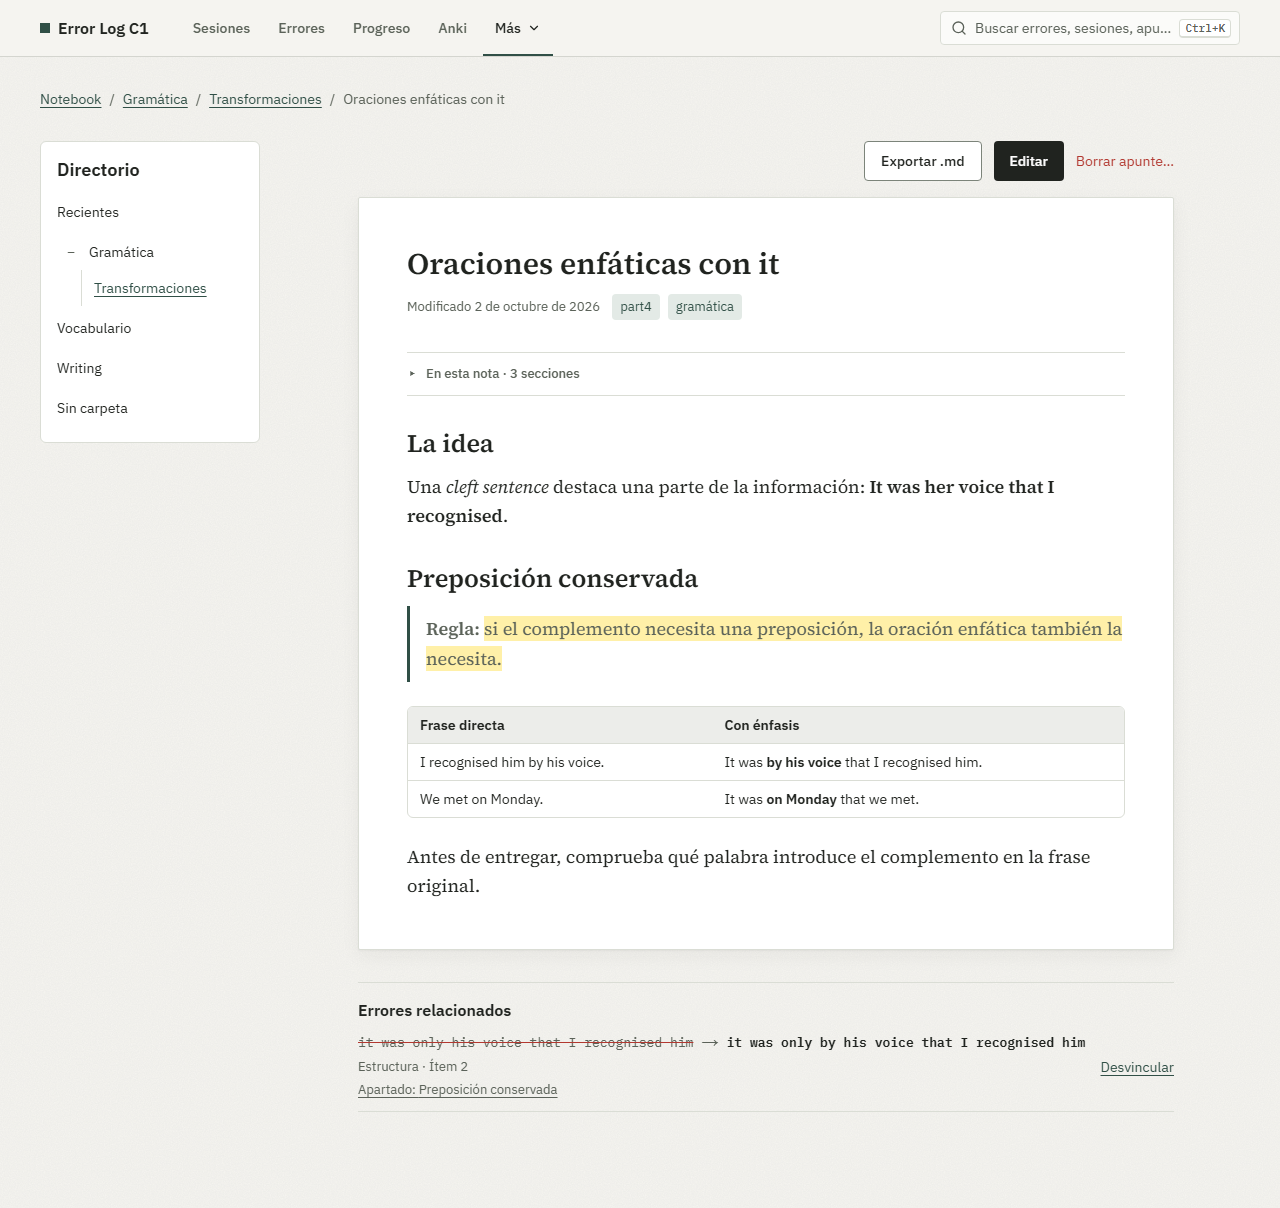
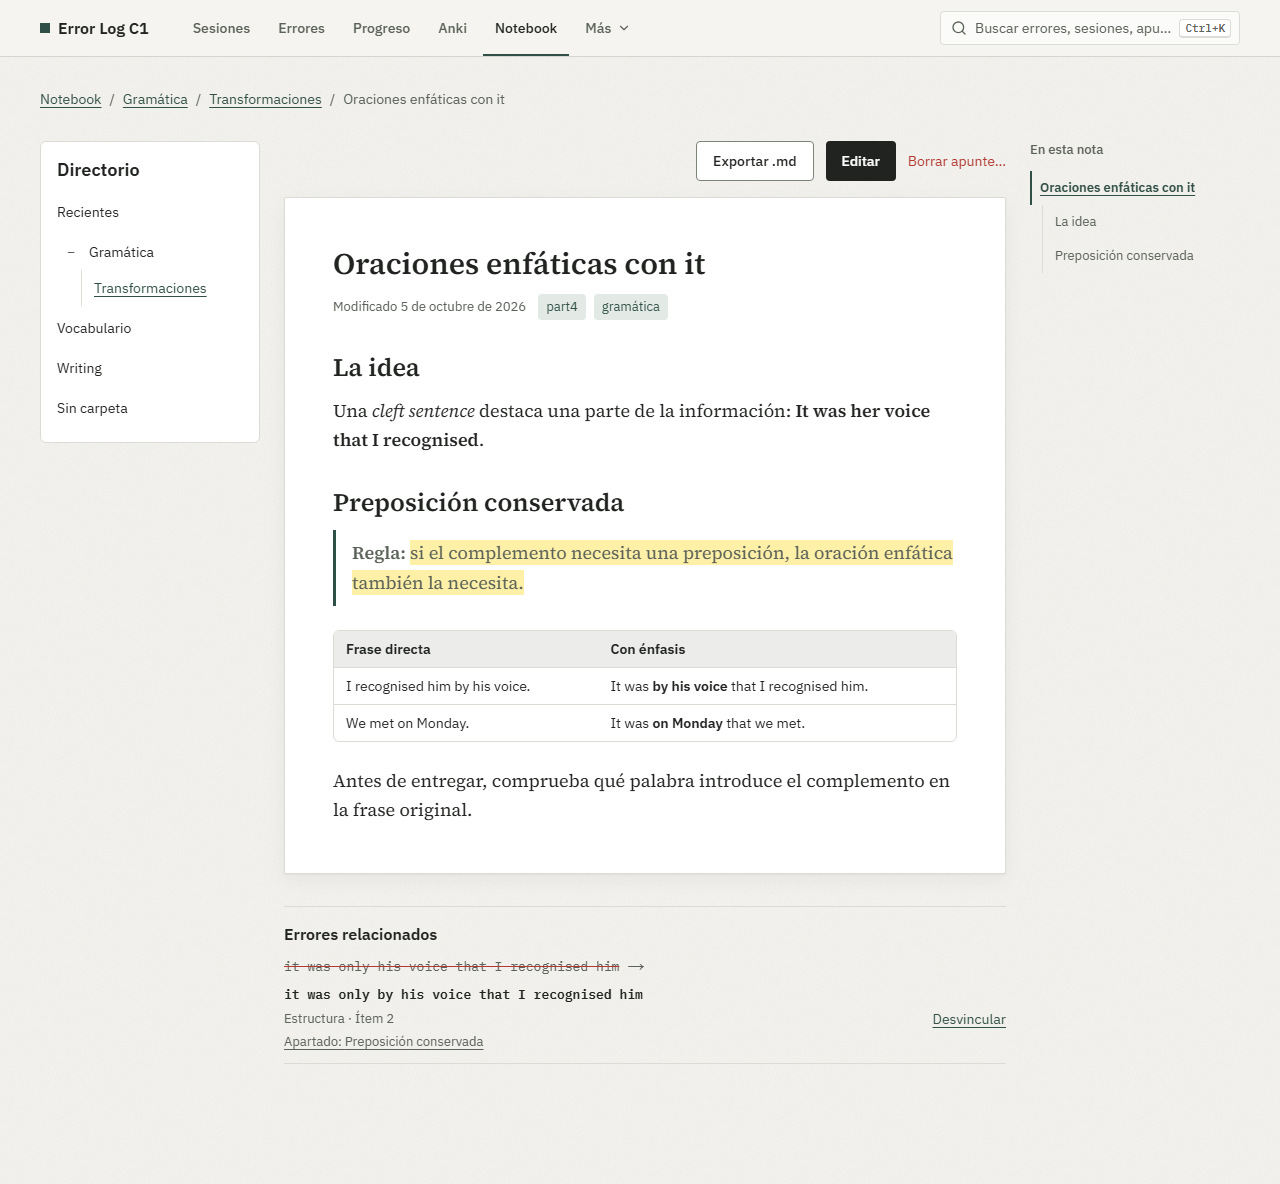
feat(notebook): restore responsive reader outline

diff --git a/e2e/notebookResponsive.spec.ts b/e2e/notebookResponsive.spec.ts
@@ -3,7 +3,7 @@ import { randomUUID } from 'node:crypto';
 import { expect, test, type Page } from '@playwright/test';
 
 import { createDb } from '../src/lib/db/client';
-import { createNotebookFolder, createNotebookNote } from '../src/lib/db/notebookRepo';
+import { createNotebookFolder, createNotebookNote, deleteNotebookNote } from '../src/lib/db/notebookRepo';
 import { notebookNoteHref } from '../src/lib/notebook/urls';
 import { E2E_DB } from './globalSetup';
 
@@ -13,7 +13,7 @@ import { E2E_DB } from './globalSetup';
  * horizontal— sobre el contenido que más tira del ancho: una tabla de cinco columnas,
  * una URL sin espacios, un bloque de código largo y un título de apunte que no cabe.
  *
- * El índice es un desplegable cerrado inicialmente en todos los tamaños.
+ * El índice ocupa una columna en escritorio y se despliega en pantallas más estrechas.
  */
 
 const VIEWPORTS = [
@@ -94,14 +94,14 @@ for (const viewport of VIEWPORTS) {
   });
 }
 
-test('el índice empieza cerrado también en escritorio', async ({ page }) => {
+test('el índice es lateral en escritorio y desplegable en tableta y móvil', async ({ page }) => {
   await page.setViewportSize({ width: 1440, height: 900 });
   await page.goto(noteHref);
   const toc = page.getByRole('navigation', { name: 'Índice del apunte' });
-  await expect(toc).toHaveCount(0);
-  await page.locator('summary').filter({ hasText: 'En esta nota' }).click();
   await expect(toc).toHaveCount(1);
   await expect(toc.getByRole('link', { name: 'Tabla de contraste' })).toBeVisible();
+  await expect(page.locator('article').getByRole('navigation', { name: 'Índice del apunte' })).toHaveCount(0);
+  await expect(page.locator('[data-study-content]').getByRole('navigation', { name: 'Índice del apunte' })).toHaveCount(0);
 
   for (const { label, width, height } of [
     { label: 'tableta', width: 834, height: 1112 },
@@ -116,6 +116,42 @@ test('el índice empieza cerrado también en escritorio', async ({ page }) => {
     await toc.getByRole('link', { name: 'Cierre' }).click();
     await expect(page).toHaveURL(/#nb-cierre$/u);
     expect(await horizontalOverflow(page)).toBeLessThanOrEqual(0);
+  }
+});
+
+test('entre 1024 y 1279 el índice cerrado queda encima del folio en la columna lectora', async ({ page }) => {
+  await page.setViewportSize({ width: 1100, height: 800 });
+  await page.goto(noteHref);
+  const summary = page.locator('summary').filter({ hasText: 'En esta nota' });
+  const article = page.locator('article');
+  await expect(summary).toBeVisible();
+  await expect(page.getByRole('navigation', { name: 'Índice del apunte' })).toHaveCount(0);
+  const [tocBox, articleBox] = await Promise.all([summary.boundingBox(), article.boundingBox()]);
+  if (tocBox === null || articleBox === null) throw new Error('Falta el índice o el folio');
+  expect(tocBox.y + tocBox.height).toBeLessThan(articleBox.y);
+  expect(tocBox.x).toBeGreaterThanOrEqual(articleBox.x);
+  expect(await horizontalOverflow(page)).toBeLessThanOrEqual(0);
+});
+
+test('sin encabezados no se reserva la columna del índice', async ({ page }) => {
+  const db = createDb(E2E_DB);
+  const plain = createNotebookNote(db, {
+    uid: randomUUID(), title: 'Apunte sin apartados', folderId: null, tags: [], contentMarkdown: 'Solo texto.',
+  }, new Date().toISOString()).note;
+  db.$client.close();
+  try {
+    await page.setViewportSize({ width: 1440, height: 900 });
+    await page.goto(noteHref);
+    const withToc = await page.locator('article').boundingBox();
+    await page.goto(notebookNoteHref(plain));
+    await expect(page.getByRole('navigation', { name: 'Índice del apunte' })).toHaveCount(0);
+    const withoutToc = await page.locator('article').boundingBox();
+    if (withToc === null || withoutToc === null) throw new Error('Falta el folio');
+    expect(withoutToc.width).toBeGreaterThan(withToc.width);
+  } finally {
+    const cleanup = createDb(E2E_DB);
+    try { deleteNotebookNote(cleanup, { id: plain.id, uid: plain.uid, expectedRevision: plain.revision }); }
+    finally { cleanup.$client.close(); }
   }
 });
 

diff --git a/e2e/notebook.spec.ts b/e2e/notebook.spec.ts
@@ -40,6 +40,8 @@ test('abre por ID, devuelve 404 para IDs inexistentes y conserva enlaces al reno
     if (request.url().startsWith('https://tracker.example/')) externalRequests.push(request.url());
   });
   await page.goto(oldHref);
+  const primaryNotebook = page.getByRole('navigation', { name: 'Secciones' }).getByRole('link', { name: 'Notebook' });
+  await expect(primaryNotebook).toHaveAttribute('aria-current', 'page');
   await expect(page.getByRole('heading', { level: 1, name: 'Modal verbs in the past' })).toBeVisible();
   await expect(page.getByRole('navigation', { name: 'Ruta del apunte' }).getByRole('link', { name: /Vocabulary/ })).toHaveAttribute('href', `/notebook?carpeta=${String(folderId)}`);
   await expect(page.getByRole('heading', { name: 'Must have' })).toHaveAttribute('id', 'nb-must-have');
@@ -48,10 +50,16 @@ test('abre por ID, devuelve 404 para IDs inexistentes y conserva enlaces al reno
   expect(externalRequests).toEqual([]);
   expect(await page.evaluate(() => Reflect.get(window, '__notebookPwned'))).toBeUndefined();
 
+  await page.goto(`${oldHref}/editar`);
+  await expect(primaryNotebook).toHaveAttribute('aria-current', 'page');
+
   await page.goto('/notebook/999999999-not-found');
   await expect(page.getByRole('heading', { name: 'Esta página no existe' })).toBeVisible();
   await page.goto('/notebook/nuevo');
+  await expect(primaryNotebook).toHaveAttribute('aria-current', 'page');
   await expect(page.getByRole('heading', { name: 'Nuevo apunte' })).toBeVisible();
+  await page.goto('/notebook/importar');
+  await expect(primaryNotebook).toHaveAttribute('aria-current', 'page');
 });
 
 test('muestra carpetas anidadas, estados vacíos y permite crear y renombrar carpetas', async ({ page }) => {
@@ -133,12 +141,11 @@ test('el índice conserva hashes, teclado, duplicados y movimiento reducido', as
   await page.setViewportSize({ width: 1440, height: 720 });
   await page.goto(`${href}#nb-must-have-1`);
   await expect(page.getByRole('heading', { name: 'Must have', exact: true }).nth(1)).toBeInViewport();
-  await page.locator('summary').filter({ hasText: 'En esta nota' }).click();
   const toc = page.getByRole('navigation', { name: 'Índice del apunte' });
   const links = toc.getByRole('link', { name: 'Must have' });
   await expect(page.getByRole('heading', { level: 1, name: 'Past modal verbs' })).toHaveCount(1);
   await expect(page.getByRole('heading', { level: 1, name: 'Past modal verbs' })).toHaveAttribute('id', 'nb-past-modal-verbs');
-  // Abrir el índice desplaza la vista al principio; el enlace conserva el destino del hash.
+  // El enlace del índice conserva el destino del hash.
   await expect(links.nth(1)).toHaveAttribute('href', '#nb-must-have-1');
   await links.first().focus();
   await page.keyboard.press('Enter');
@@ -165,7 +172,6 @@ test('el índice conserva hashes, teclado, duplicados y movimiento reducido', as
   await page.setViewportSize({ width: 800, height: 700 });
   const disclosure = page.locator('summary').filter({ hasText: 'En esta nota' });
   await disclosure.click();
-  await disclosure.click();
   await expect(page.getByRole('navigation', { name: 'Índice del apunte' }).getByRole('link', { name: 'Must have' }).first()).toBeVisible();
 });
 
@@ -181,7 +187,6 @@ test('en una nota breve, el hash decide el apartado activo aunque no haya scroll
   } finally { db.$client.close(); }
   await page.setViewportSize({ width: 1440, height: 900 });
   await page.goto(`${href}#nb-primero`);
-  await page.locator('summary').filter({ hasText: 'En esta nota' }).click();
   const toc = page.getByRole('navigation', { name: 'Índice del apunte' });
   await expect(toc.getByRole('link', { name: 'Primero' })).toHaveAttribute('aria-current', 'location');
   await toc.getByRole('link', { name: 'Segundo' }).click();

diff --git a/src/app/notebook/TableOfContents.tsx b/src/app/notebook/TableOfContents.tsx
@@ -1,6 +1,6 @@
 'use client';
 
-import { useEffect, useMemo, useState, type MouseEvent } from 'react';
+import { useEffect, useMemo, useRef, useState, type MouseEvent } from 'react';
 
 import { buildNotebookToc, type NotebookTocNode } from '@/lib/notebook/toc';
 import type { NotebookHeading } from '@/lib/notebook/types';
@@ -33,6 +33,17 @@ function TocLinks({ nodes, active, onNavigate }: {
 export function TableOfContents({ headings }: { readonly headings: readonly NotebookHeading[] }) {
   const tree = useMemo(() => buildNotebookToc(headings), [headings]);
   const [active, setActive] = useState<string | null>(headings[0]?.slug ?? null);
+  const desktop = useRef<HTMLElement>(null);
+
+  useEffect(() => {
+    const container = desktop.current;
+    const selected = container?.querySelector<HTMLElement>('a[aria-current="location"]');
+    if (container === null || selected === null || selected === undefined) return;
+    const area = container.getBoundingClientRect();
+    const item = selected.getBoundingClientRect();
+    if (item.top < area.top) container.scrollTop += item.top - area.top;
+    else if (item.bottom > area.bottom) container.scrollTop += item.bottom - area.bottom;
+  }, [active]);
 
   useEffect(() => {
     const slugs = new Set(headings.map((heading) => heading.slug));
@@ -111,12 +122,16 @@ export function TableOfContents({ headings }: { readonly headings: readonly Note
   };
 
   if (headings.length === 0) return null;
-  return (
+  return <>
+    <nav ref={desktop} aria-label="Índice del apunte" className={styles.desktop}>
+      <h2>En esta nota</h2>
+      <TocLinks nodes={tree} active={active} onNavigate={onNavigate} />
+    </nav>
     <details className={styles.compact}>
       <summary>En esta nota · {headings.length} {headings.length === 1 ? 'sección' : 'secciones'}</summary>
       <nav aria-label="Índice del apunte">
         <TocLinks nodes={tree} active={active} onNavigate={onNavigate} />
       </nav>
     </details>
-  );
+  </>;
 }

diff --git a/src/app/notebook/[noteKey]/page.tsx b/src/app/notebook/[noteKey]/page.tsx
@@ -44,10 +44,13 @@ export default async function NotebookNotePage({ params }: { readonly params: Pr
         <span aria-hidden="true">/</span>
         <span aria-current="page">{note.title}</span>
       </nav>
-      <div className={`${styles.layout} ${styles.readerLayout}`}>
+      <div className={`${styles.layout} ${headings.length > 0 ? styles.readerLayout : ''}`}>
         <aside className={styles.sidebar}>
           <NotebookDirectory folders={folders} selectedFolderId={note.folderId} />
         </aside>
+        {headings.length > 0 && <aside className={styles.tocArea}>
+          <TableOfContents key={note.id} headings={headings} />
+        </aside>}
         <div className={styles.readerColumn}>
           <div className={styles.readerActions}>
             <a href={`/exportar/notebook-${String(note.id)}.md`} download className={ui.secondary}>Exportar .md</a>
@@ -62,7 +65,6 @@ export default async function NotebookNotePage({ params }: { readonly params: Pr
                 {note.tags.map((tag) => <li key={tag}>{tag}</li>)}
               </ul>}
             </div>
-            <TableOfContents key={note.id} headings={headings} />
             {note.contentMarkdown === '' ? (
               <div className={styles.empty}><p>Este apunte todavía no tiene contenido.</p></div>
             ) : (

diff --git a/e2e/notebookReviewFixes.spec.ts b/e2e/notebookReviewFixes.spec.ts
@@ -191,17 +191,16 @@ test('los filtros siguen la navegación y una carpeta incluye descendientes sin 
   await expect(page.getByRole('combobox', { name: 'Carpeta', exact: true })).toHaveValue(String(rootId));
 });
 
-test('el índice desplegable navega sin ocupar una columna permanente', async ({ page }) => {
+test('el índice lateral permanece visible y marca el apartado activo', async ({ page }) => {
   const note = seedNote(Array.from({ length: 15 }, (_, i) => `## Apartado ${String(i)}\n\n${'Explicación de la regla. '.repeat(60)}`).join('\n\n'));
   await page.setViewportSize({ width: 1440, height: 900 });
   await page.goto(notebookNoteHref(note));
-  await page.locator('summary').filter({ hasText: 'En esta nota' }).click();
   const toc = page.getByRole('navigation', { name: 'Índice del apunte' });
   await toc.getByRole('link', { name: 'Apartado 8', exact: true }).click();
   await expect(page).toHaveURL(/#nb-apartado-8$/u);
   await expect.poll(async () => {
     const box = await toc.boundingBox();
-    return box !== null && box.y + box.height < 0;
+    return box !== null && box.y >= 0 && box.y + box.height <= 900;
   }).toBe(true);
   await expect(toc.getByRole('link', { name: 'Apartado 8', exact: true })).toHaveAttribute('aria-current', 'location');
 });

diff --git a/e2e/report.spec.ts b/e2e/report.spec.ts
@@ -6,6 +6,21 @@ import { expect, test } from '@playwright/test';
  */
 
 test.describe('progreso', () => {
+  test('Notebook cabe entero en la cabecera móvil', async ({ page }) => {
+    for (const width of [320, 360, 390]) {
+      await page.setViewportSize({ width, height: 844 });
+      await page.goto('/notebook');
+      const link = page.getByRole('navigation', { name: 'Secciones' }).getByRole('link', { name: 'Notebook' });
+      await expect(link).toBeVisible();
+      const metrics = await link.evaluate((element) => ({
+        textFits: element.scrollWidth <= element.clientWidth,
+        pageOverflow: document.documentElement.scrollWidth - document.documentElement.clientWidth,
+      }));
+      expect(metrics.textFits, `Notebook recortado a ${String(width)} px`).toBe(true);
+      expect(metrics.pageOverflow, `desbordamiento a ${String(width)} px`).toBeLessThanOrEqual(0);
+    }
+  });
+
   test('G N abre Notebook desde otra sección y en Sesiones no abre Nueva sesión', async ({ page }) => {
     const notebook = page.getByRole('navigation', { name: 'Secciones' }).getByRole('link', { name: 'Notebook' });
     for (const path of ['/informe', '/registrar']) {

diff --git a/src/app/notebook/notebook.module.css b/src/app/notebook/notebook.module.css
@@ -79,7 +79,18 @@
 
 .readerLayout .sidebar {
   grid-column: 1;
+  grid-row: 1 / span 2;
+}
+
+.tocArea {
+  min-width: 0;
+  grid-column: 2;
   grid-row: 1;
+}
+
+.readerLayout .readerColumn {
+  grid-column: 2;
+  grid-row: 2;
 }
 
 .sidebar {
@@ -326,6 +337,25 @@
   justify-self: center;
 }
 
+@media (min-width: 1280px) {
+  .readerLayout {
+    grid-template-columns: minmax(180px, 220px) minmax(600px, 1fr) minmax(180px, 210px);
+    gap: var(--space-5);
+  }
+
+  .readerLayout .readerColumn {
+    grid-column: 2;
+    grid-row: 1;
+  }
+
+  .tocArea {
+    position: sticky;
+    top: calc(var(--header-h) + var(--space-5));
+    grid-column: 3;
+    grid-row: 1;
+  }
+}
+
 .reader {
   min-width: 0;
   padding: var(--space-7);
@@ -380,6 +410,11 @@
   }
 
   .readerLayout .readerColumn {
+    grid-column: 1;
+    grid-row: 3;
+  }
+
+  .tocArea {
     grid-column: 1;
     grid-row: 2;
   }

diff --git a/src/app/notebook/toc.module.css b/src/app/notebook/toc.module.css
@@ -26,8 +26,15 @@
   text-underline-offset: 3px;
 }
 
+.list a[aria-current='location'] {
+  border-left: 2px solid var(--color-brand);
+  padding-left: var(--space-2);
+  font-weight: 600;
+}
+
 .compact {
-  margin: 0 0 var(--space-6);
+  display: none;
+  margin: 0;
   padding: var(--space-3) 0;
   border-top: 1px solid var(--color-rule);
   border-bottom: 1px solid var(--color-rule);
@@ -53,4 +60,21 @@
 
 .compact nav {
   margin-top: var(--space-2);
+}
+.desktop {
+  max-height: calc(100vh - var(--header-h) - var(--space-6));
+  overflow-y: auto;
+  overscroll-behavior: contain;
+}
+
+.desktop h2 {
+  margin: 0 0 var(--space-3);
+  color: var(--color-ink-2);
+  font: var(--text-label);
+}
+
+
+@media (max-width: 1279px) {
+  .desktop { display: none; }
+  .compact { display: block; }
 }

diff --git a/e2e/notebookStudy.spec.ts b/e2e/notebookStudy.spec.ts
@@ -71,7 +71,9 @@ function marks() {
 }
 
 test('ratón: rotulador y color persisten; limpiar respeta el resto de la selección', async ({ page }) => {
-  await expect(page.getByRole('navigation', { name: 'Índice del apunte' })).toHaveCount(0);
+  await expect(page.getByRole('navigation', { name: 'Índice del apunte' })).toHaveCount(1);
+  await expect(page.locator('article').getByRole('navigation', { name: 'Índice del apunte' })).toHaveCount(0);
+  await expect(page.locator('[data-study-content]').getByRole('navigation', { name: 'Índice del apunte' })).toHaveCount(0);
   await select(page, 'An important concept', true);
   await page.getByRole('button', { name: 'Rotulador', exact: true }).click();
   await saved(page);

diff --git a/docs/GUIDE.md b/docs/GUIDE.md
@@ -111,13 +111,14 @@ completo de **Exportar**: importar `dump.json` no está implementado.
 
 ## Notebook: apuntes para repasar
 
-En **Más → Notebook** puedes crear apuntes Markdown, organizarlos en carpetas de hasta
+En **Notebook**, en la cabecera, puedes crear apuntes Markdown, organizarlos en carpetas de hasta
 dos niveles y añadir etiquetas. El editor ofrece vista previa, guardado automático,
 borradores locales recuperables y **Guardar ahora** (Ctrl/⌘+S). La lectura muestra un
 índice de apartados; la búsqueda encuentra títulos, texto y etiquetas. Desde el panel
 de un error puedes vincularlo manualmente a un apunte completo o a un apartado.
 
-El lector presenta el apunte como un folio y mantiene **En esta nota** cerrado al entrar.
+El lector presenta el apunte como un folio. En escritorio, **En esta nota** permanece visible
+a la derecha; en tableta y móvil, se abre como un desplegable encima del folio.
 En ordenador, selecciona texto para abrir **Rotulador · Color · Limpiar**: el rotulador
 amarillo y los colores de tinta se guardan automáticamente, sin cambiar el Markdown.
 Puedes quitar formato solo de una parte de una frase. Tab lleva el foco a la barra y
